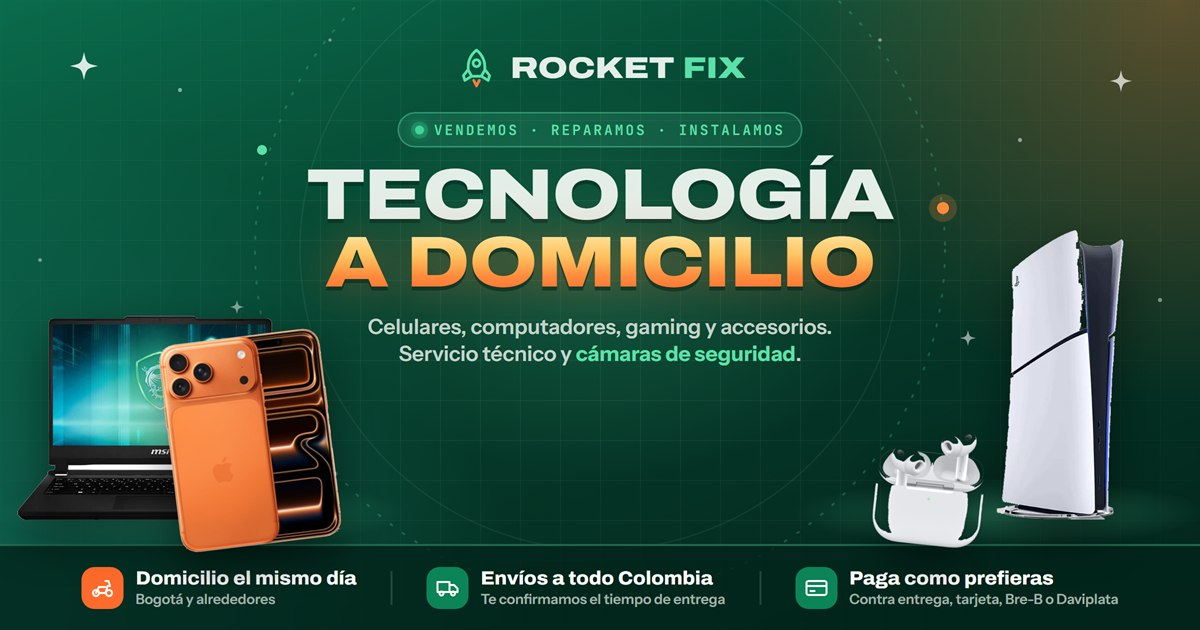
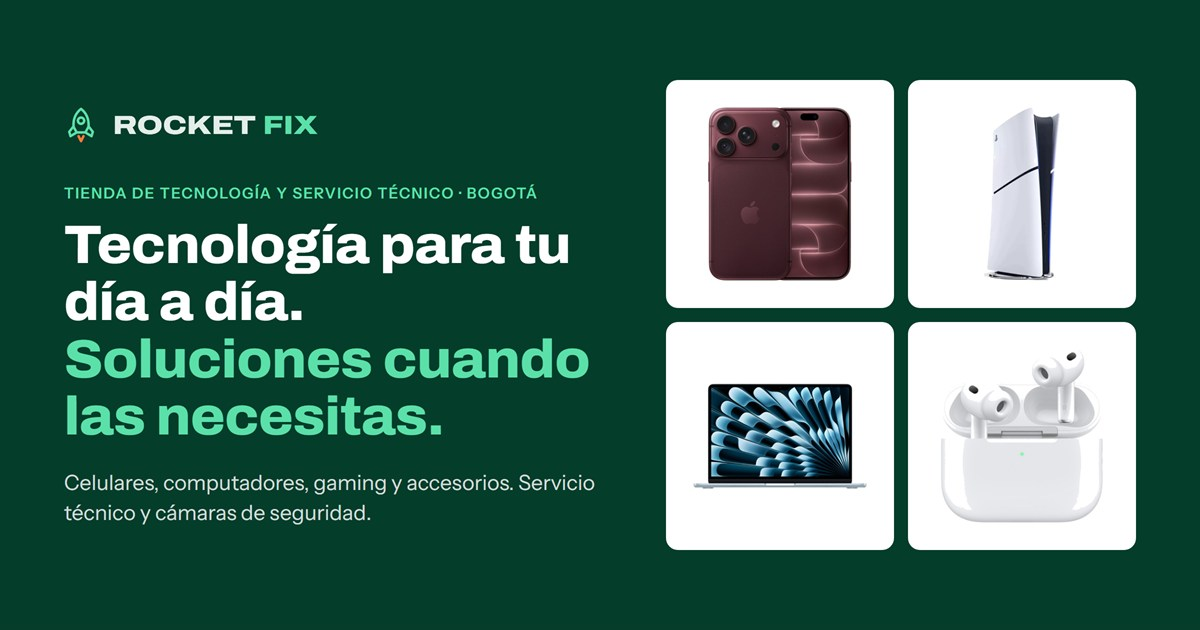
Auditoría de lanzamiento: contraste, regreso de Bold, vitrina, 404 e imagen para compartir
- Botones naranjas y contador del carrito con texto oscuro (2,8:1 -> 6,7:1); gris secundario y filtros activos con contraste suficiente
- El aviso al volver de Bold ya no afirma un pago que la página no puede verificar; lectura del regreso una sola vez
- La vitrina deja de cambiar sola cuando la persona elige un producto
- 404.html lleva las direcciones sin # a la sección correcta
- Nueva imagen para compartir el enlace con el estilo actual y metadatos actualizados
- Informe en docs/auditoria-lanzamiento.md

diff --git a/src/paginas/Inicio.tsx b/src/paginas/Inicio.tsx
@@ -17,19 +17,21 @@ import type { Producto, Servicio } from "../types";
 const VITRINA = ["ip18pm", "ss26u", "p45631", "mbairm5", "switch2", "appro3"];
 const ESPERA_VITRINA = 6000;
 
-/** Vitrina: un producto grande y los demás en miniatura. Cambia sola con un fundido (se detiene con el mouse encima,
-    al usar el teclado o si la persona pidió menos movimiento). */
+/** Vitrina: un producto grande y los demás en miniatura. Cambia sola con un fundido; se detiene con el mouse encima o
+    al usar el teclado, no se mueve si la persona pidió menos movimiento y deja de cambiar cuando la persona elige un producto
+    (en celular no hay mouse que la detenga). */
 function Vitrina() {
   const productos = useMemo(() => VITRINA.map(id => porId[id]).filter((p): p is Producto => Boolean(p)), []);
   const [i, setI] = useState(0);
   const [quieta, setQuieta] = useState(false);
+  const [elegida, setElegida] = useState(false);
   const [reducir] = useState(() => window.matchMedia("(prefers-reduced-motion: reduce)").matches);
 
   useEffect(() => {
-    if (quieta || reducir || productos.length < 2) return;
+    if (quieta || elegida || reducir || productos.length < 2) return;
     const t = window.setTimeout(() => setI(x => (x + 1) % productos.length), ESPERA_VITRINA);
     return () => window.clearTimeout(t);
-  }, [i, quieta, reducir, productos.length]);
+  }, [i, quieta, elegida, reducir, productos.length]);
 
   const p = productos[i];
   if (!p) return null;
@@ -45,7 +47,7 @@ function Vitrina() {
         ))}
         <span className="absolute left-3 top-3 rounded-sm bg-fondo px-2 py-1 text-[11px] font-semibold uppercase tracking-wide text-tinta-2">{etiquetaDe(p)}</span>
       </div>
-      <div className="flex items-center justify-between gap-3 border-t border-linea px-4 py-3.5 sm:px-5" aria-live={quieta ? "polite" : "off"}>
+      <div className="flex items-center justify-between gap-3 border-t border-linea px-4 py-3.5 sm:px-5" aria-live={quieta || elegida ? "polite" : "off"}>
         <div className="min-w-0">
           <p className="truncate font-display text-[17px] font-bold">{p.nombre}</p>
           <p className="text-sm text-tinta-2">{p.opciones.length > 1 && "Desde "}<b className="font-display text-[15px] tabular-nums text-tinta">{dinero(desde(p))}</b></p>
@@ -54,7 +56,7 @@ function Vitrina() {
       </div>
       <div className="grid grid-cols-6 gap-1.5 border-t border-linea bg-fondo p-2 sm:gap-2 sm:p-2.5">
         {productos.map((x, j) => (
-          <button key={x.id} type="button" onClick={() => setI(j)} aria-label={`Ver ${x.nombre}`} aria-current={j === i || undefined}
+          <button key={x.id} type="button" onClick={() => { setI(j); setElegida(true); }} aria-label={`Ver ${x.nombre}`} aria-current={j === i || undefined}
             className={`aspect-square rounded border bg-white p-1 transition-colors ${j === i ? "border-marca ring-1 ring-marca" : "border-linea hover:border-linea-fuerte"}`}>
             <FotoProducto producto={x} alt="" />
           </button>

diff --git a/index.html b/index.html
@@ -15,13 +15,14 @@
     <meta property="og:site_name" content="Rocket Fix" />
     <meta property="og:locale" content="es_CO" />
     <meta property="og:url" content="https://oscarjimenez21.github.io/RocketFix/" />
-    <meta property="og:title" content="Rocket Fix · Tecnología a domicilio" />
-    <meta property="og:description" content="Celulares, computadores, gaming y accesorios con domicilio el mismo día en Bogotá y envíos a todo Colombia. Servicio técnico y cámaras de seguridad." />
-    <meta property="og:image" content="https://oscarjimenez21.github.io/RocketFix/vista-previa.jpg" />
+    <meta property="og:title" content="Rocket Fix · Tecnología para tu día a día" />
+    <meta property="og:description" content="Celulares, computadores, gaming y accesorios con entrega a domicilio en Bogotá y envíos a todo Colombia. Servicio técnico y cámaras de seguridad." />
+    <!-- ?v=2: al cambiar la imagen se sube este número para que WhatsApp y Facebook no muestren la anterior guardada -->
+    <meta property="og:image" content="https://oscarjimenez21.github.io/RocketFix/vista-previa.jpg?v=2" />
     <meta property="og:image:type" content="image/jpeg" />
     <meta property="og:image:width" content="1200" />
     <meta property="og:image:height" content="630" />
-    <meta property="og:image:alt" content="Rocket Fix: tecnología a domicilio. Celulares, computadores, gaming, servicio técnico y cámaras de seguridad." />
+    <meta property="og:image:alt" content="Rocket Fix: tecnología para tu día a día. iPhone, PlayStation 5, MacBook y AirPods; servicio técnico y cámaras de seguridad." />
     <meta name="twitter:card" content="summary_large_image" />
     <link rel="preconnect" href="https://fonts.googleapis.com" />
     <link rel="preconnect" href="https://fonts.gstatic.com" crossorigin />

diff --git a/src/App.tsx b/src/App.tsx
@@ -28,7 +28,8 @@ function tituloDe(r: Ruta) {
   return base;
 }
 
-/** Aviso del resultado cuando Bold devuelve al cliente a la tienda */
+/** Aviso cuando Bold devuelve al cliente a la tienda. El estado viene en la dirección (?bold-tx-status=…) y la página
+    no puede comprobarlo: por eso no afirma que el pago se recibió; Rocket Fix lo verifica en Bold antes de despachar. */
 function RegresoBold() {
   const { vaciar } = useTienda();
   const [regreso] = useState(leerRegresoBold);
@@ -37,8 +38,8 @@ function RegresoBold() {
   let msg = "";
   try { msg = localStorage.getItem("rf-pago-" + regreso.ref) || ""; } catch { /* sin almacenamiento */ }
   const aprobado = regreso.estado === "approved";
-  const titulo = aprobado ? "¡Pago recibido!" : regreso.estado === "pending" ? "Tu pago está en proceso." : "El pago no se completó.";
-  const texto = aprobado ? "Envíanos el pedido por WhatsApp para coordinar la entrega." : regreso.estado === "pending" ? "Te avisamos por WhatsApp cuando Bold lo confirme." : "Puedes intentarlo de nuevo desde el carrito o enviarnos el pedido por WhatsApp.";
+  const titulo = aprobado ? "Bold reportó tu pago como aprobado." : regreso.estado === "pending" ? "Tu pago está en proceso." : "El pago no se completó.";
+  const texto = aprobado ? "Envíanos el pedido por WhatsApp: verificamos el pago y coordinamos la entrega." : regreso.estado === "pending" ? "Te avisamos por WhatsApp cuando Bold lo confirme." : "Puedes intentarlo de nuevo desde el carrito o enviarnos el pedido por WhatsApp.";
   return (
     <div role="status" className={aprobado ? "bg-marca-suave" : "bg-acento-suave"}>
       <p className="contenedor py-3 text-sm"><strong>{titulo}</strong> {texto} Referencia {regreso.ref}.{" "}

diff --git a/public/404.html b/public/404.html
@@ -1,0 +1,23 @@
+<!doctype html>
+<html lang="es">
+  <head>
+    <meta charset="utf-8" />
+    <meta name="viewport" content="width=device-width, initial-scale=1" />
+    <meta name="robots" content="noindex" />
+    <title>Rocket Fix</title>
+    <script>
+      // GitHub Pages muestra esta página cuando una dirección no existe, por ejemplo /RocketFix/celulares (escrita sin #).
+      // La tienda usa direcciones con # (/RocketFix/#celulares, /RocketFix/#p/sa07), así que se lleva a la persona
+      // a la misma sección. Si la sección tampoco existe, la tienda muestra su propia página de "No la encontramos".
+      (function () {
+        var partes = location.pathname.split("/").filter(Boolean);
+        var base = partes[0] === "RocketFix" ? "/" + partes.shift() + "/" : "/";
+        var resto = partes.join("/").replace(/\.html?$/i, "").replace(/^index$/i, "");
+        location.replace(base + (location.hash || (resto ? "#" + resto : "")));
+      })();
+    </script>
+  </head>
+  <body style="font-family: system-ui, sans-serif; padding: 24px">
+    <p>Te estamos llevando a la tienda. Si no pasa nada, entra a <a href="/RocketFix/">Rocket Fix</a>.</p>
+  </body>
+</html>

diff --git a/src/lib/bold.ts b/src/lib/bold.ts
@@ -58,11 +58,14 @@ export async function abrirBold(ref: string, total: number, descripcion: string)
   return modo;
 }
 
-/** Cuando Bold devuelve al cliente (?pedido=…&bold-tx-status=…) */
+/** Cuando Bold devuelve al cliente (?pedido=…&bold-tx-status=…). Se lee una sola vez: después se limpian los datos
+    de la dirección, así que una segunda lectura (React la repite en modo de desarrollo) devuelve el mismo resultado. */
+let regreso: { ref: string; estado: string } | null | undefined;
 export function leerRegresoBold(): { ref: string; estado: string } | null {
+  if (regreso !== undefined) return regreso;
   const q = new URLSearchParams(location.search);
   const ref = q.get("pedido"), estado = q.get("bold-tx-status");
-  if (!ref || !estado) return null;
-  history.replaceState(null, "", location.pathname + location.hash);
-  return { ref, estado };
+  regreso = ref && estado ? { ref, estado } : null;
+  if (regreso) history.replaceState(null, "", location.pathname + location.hash);
+  return regreso;
 }

diff --git a/tailwind.config.js b/tailwind.config.js
@@ -16,9 +16,10 @@ export default {
           suave: "#E7F3EC"
         },
         // Naranja del cohete: solo para la acción principal y detalles puntuales. "texto" se lee sobre fondos claros (7:1)
-        acento: { DEFAULT: "#FF6B2C", hover: "#E85A1D", suave: "#FFF0E8", texto: "#9A3412" },
-        // tinta-3 cumple contraste 4,5:1 sobre blanco para textos pequeños
-        tinta: { DEFAULT: "#0F1F18", 2: "#4A5D53", 3: "#66766D" },
+        // "tinta": texto sobre el naranja (el mismo de la tienda original), 6,7:1; el blanco sobre naranja solo da 2,8:1
+        acento: { DEFAULT: "#FF6B2C", hover: "#E85A1D", suave: "#FFF0E8", texto: "#9A3412", tinta: "#1F0B00" },
+        // tinta-3 cumple contraste 4,5:1 sobre blanco y sobre el fondo claro para textos pequeños
+        tinta: { DEFAULT: "#0F1F18", 2: "#4A5D53", 3: "#5F6F66" },
         fondo: "#F4F8F6",
         linea: { DEFAULT: "#DCE6E0", fuerte: "#C5D3CA" },
         // Verde WhatsApp un poco más oscuro para que el texto blanco se lea bien (contraste 4,7:1)

diff --git a/src/components/Cabecera.tsx b/src/components/Cabecera.tsx
@@ -171,7 +171,7 @@ export function Cabecera({ ruta }: { ruta: Ruta }) {
               className="inline-flex h-11 items-center gap-1.5 rounded border border-linea-fuerte px-2.5 text-sm font-semibold transition-colors hover:border-tinta-2 sm:gap-2 sm:px-3">
               <IconoBolsa />
               <span className="hidden sm:inline">Carrito</span>
-              <span className={`min-w-[22px] rounded-full px-1.5 py-0.5 text-center text-xs font-bold tabular-nums ${unidades ? "bg-acento text-white" : "bg-fondo text-tinta-2"}`}>{unidades}</span>
+              <span className={`min-w-[22px] rounded-full px-1.5 py-0.5 text-center text-xs font-bold tabular-nums ${unidades ? "bg-acento text-acento-tinta" : "bg-fondo text-tinta-2"}`}>{unidades}</span>
             </button>
           </div>
         </div>

diff --git a/src/index.css b/src/index.css
@@ -26,7 +26,7 @@
 
   .btn { @apply inline-flex min-h-[44px] items-center justify-center gap-2 rounded px-4 text-[15px] font-semibold transition-colors disabled:cursor-not-allowed disabled:opacity-50; }
   .btn-sm { @apply min-h-[40px] px-3 text-sm; }
-  .btn-primario { @apply bg-acento text-white hover:bg-acento-hover; }
+  .btn-primario { @apply bg-acento text-acento-tinta hover:bg-acento-hover; }
   .btn-marca { @apply bg-marca text-white hover:bg-marca-hover; }
   .btn-wa { @apply bg-wa text-white hover:bg-wa-hover; }
   .btn-borde { @apply border border-linea-fuerte bg-white text-tinta hover:border-tinta-2; }

diff --git a/src/paginas/Tienda.tsx b/src/paginas/Tienda.tsx
@@ -23,7 +23,7 @@ export function abrirTiendaEn(tienda: TiendaId, cat: string) {
 function Chip({ activo, onClick, children, n }: { activo: boolean; onClick: () => void; children: React.ReactNode; n: number }) {
   return (
     <button type="button" aria-pressed={activo} onClick={onClick} className="chip">
-      {children} <span className={`text-xs tabular-nums ${activo ? "text-white/80" : "text-tinta-3"}`}>{n}</span>
+      {children} <span className={`text-xs tabular-nums ${activo ? "text-white" : "text-tinta-3"}`}>{n}</span>
     </button>
   );
 }

diff --git a/docs/auditoria-lanzamiento.md b/docs/auditoria-lanzamiento.md
@@ -1,0 +1,167 @@
+# Auditoría de lanzamiento de Rocket Fix
+
+Rama: `auditoria-lanzamiento`, a partir de lo publicado (`main` en `7d3c0c6`). **Nada de esto está publicado.** `main`, GitHub Pages y la configuración siguen sin cambios. Para comparar con la versión estable, en GitHub Desktop elige la rama y abre *History*; también puedes usar `git diff main auditoria-lanzamiento`.
+
+## A. Problemas encontrados
+
+| # | Problema | Dónde |
+|---|---|---|
+| 1 | Los botones naranjas principales ("Comprar tecnología", "Agregar al carrito", "Cotizar instalación") tenían texto blanco sobre naranja: contraste de 2,84:1, cuando el mínimo para texto normal es 4,5:1. Lo mismo pasaba con el contador del carrito | `src/index.css` (`.btn-primario`), `src/components/Cabecera.tsx` |
+| 2 | El gris del texto secundario daba 4,48:1 sobre el fondo claro, apenas por debajo del mínimo (fechas, notas, migas de pan) | `tailwind.config.js` (`tinta-3`) |
+| 3 | En los filtros activos, el número de productos daba 3,6:1 | `src/paginas/Tienda.tsx` |
+| 4 | Al volver de Bold, la página decía "¡Pago recibido!" basándose solo en un dato de la dirección web (`?bold-tx-status=approved`), que cualquiera puede escribir a mano. Afirmaba un pago que nadie había verificado | `src/App.tsx` (`RegresoBold`) |
+| 5 | Esa lectura del regreso de Bold se borraba a sí misma: si React la repetía (en modo de desarrollo lo hace), el aviso no aparecía | `src/lib/bold.ts` |
+| 6 | En celular, la vitrina de la portada seguía cambiando sola aunque la persona hubiera elegido un producto (en celular no hay mouse que la detenga) | `src/paginas/Inicio.tsx` |
+| 7 | Una dirección escrita sin `#` (por ejemplo `/RocketFix/celulares`) mostraba la página de error genérica de GitHub | Faltaba `public/404.html` |
+| 8 | En la imagen que se ve al compartir el enlace, la PS5 y los AirPods estaban mal recortados (bordes dentados), y el estilo, con degradados y brillos, ya no coincidía con la página. Además, la descripción para compartir prometía entrega "el mismo día", que está pendiente de confirmar | `public/vista-previa.jpg`, `index.html` |
+
+**Revisado sin problemas:**
+- 273 enlaces internos sin enlaces rotos, y ningún producto enlazado que no exista.
+- En 24 páginas: todos los botones y enlaces tienen nombre, todas las imágenes tienen texto alternativo, todos los campos tienen etiqueta, no hay identificadores repetidos y cada página tiene un único título principal.
+- Consola sin errores ni advertencias.
+- El número de WhatsApp sale de un solo lugar (`config.json`); la única copia aparte está en el aviso para navegadores sin JavaScript (`index.html`) y coincide.
+
+## B. Correcciones realizadas
+
+1. **Contraste de los botones naranjas:** el naranja de la marca no cambia. El texto pasa a `#1F0B00`, el marrón casi negro que la tienda original usaba sobre ese mismo naranja: 6,7:1. Se aplicó también al contador del carrito.
+2. **Gris secundario:** pasa de `#66766D` a `#5F6F66`, que da 4,9:1 sobre el fondo claro y 5,3:1 sobre blanco.
+3. **Números de los filtros activos:** pasan a blanco pleno (4,7:1).
+4. **Regreso de Bold:**
+   - El aviso ahora dice "Bold reportó tu pago como aprobado. Envíanos el pedido por WhatsApp: verificamos el pago y coordinamos la entrega."
+   - No afirma que el pago se recibió, porque la página no puede comprobarlo.
+   - La lógica no cambió.
+5. **Lectura del regreso de Bold:** se hace una sola vez y se guarda el resultado.
+6. **Vitrina:** deja de cambiar sola cuando la persona elige un producto. También se detiene con el mouse o el teclado, y no se mueve si la persona pidió menos movimiento.
+7. **`public/404.html`:**
+   - Lleva `/RocketFix/celulares` a `/RocketFix/#celulares`, y `/RocketFix/p/sa07` a `/RocketFix/#p/sa07`.
+   - Si la sección no existe, se ve la página "No la encontramos" de la tienda.
+   - Probado con 7 direcciones de ejemplo.
+8. **Imagen para compartir rediseñada** (1200 × 630, 91 KB):
+   - Mismo estilo de la portada: verde oscuro plano, logo oficial y el titular "Tecnología para tu día a día. Soluciones cuando las necesitas.".
+   - Muestra iPhone 18 Pro Max, PS5, MacBook Air M5 y AirPods Pro 3 sobre mosaicos blancos, con las fotos completas de 800 px y sin recortes.
+   - Archivo fuente y versión de alta calidad en `Downloads\Lanzamiento Rocket Fix\Vista previa del enlace\02 Tecnologia para tu dia a dia`.
+   - En `index.html`:
+     - `og:image` lleva `?v=2` para que WhatsApp y Facebook no sigan mostrando la versión anterior guardada;
+     - el título y la descripción coinciden con la portada nueva;
+     - la descripción ya no dice "el mismo día".
+
+## C. Mejoras recomendadas (requieren tu decisión, información o servicios externos)
+
+1. **Políticas.** No existen y no las inventé:
+   - garantía;
+   - cambios y devoluciones, incluido el derecho de retracto en compras por internet;
+   - tratamiento de datos personales. Los formularios y el carrito piden nombre y dirección, aunque solo los ponen en un mensaje de WhatsApp.
+
+   Cuando las tengas, las agrego al pie de página.
+2. **Pago con Bold:**
+   - **Monto:** como `firmaUrl` está vacío, el cliente escribe el total a mano, así que puede pagar un valor distinto.
+   - **Estado:** el estado que llega en la dirección no está verificado.
+   - **Para dejarlo completo** hace falta un servicio pequeño, que puede ser gratuito (Cloudflare Workers, Netlify o Vercel). Guardaría la llave secreta, firmaría el total (así el cliente no lo escribe) y recibiría las confirmaciones de Bold por *webhook*.
+   - **Mientras tanto:** verifica cada pago en el panel de Bold, por referencia y monto, antes de despachar.
+3. **"Lo más vendido" y la cinta "Top ventas".** La tienda todavía no tiene historial de ventas propio. Si la lista refleja lo más vendido en el mercado colombiano, conviene decir "Populares en Colombia" o algo similar.
+4. **Dominio propio** (por ejemplo, rocketfix.com.co):
+   - genera más confianza;
+   - permite `robots.txt` y `sitemap.xml`, porque en una página de proyecto de GitHub esos archivos no se leen;
+   - da un correo con el nombre de la tienda.
+5. **Posicionamiento en Google:** con las direcciones `#`, Google ve sobre todo la portada. Para que cada producto aparezca por separado habría que generar una página por producto. Es un cambio mayor.
+6. **Ficha de producto:** dice "Paga con tarjeta, Bre-B, Daviplata, transferencia o efectivo" y no menciona PSE, que la portada sí incluye (a través de Bold). Conviene unificar el texto.
+7. **Mensaje del pedido por WhatsApp:** no incluye notas como "Sobre pedido". Agregarlas cambiaría el formato del mensaje.
+8. **Rendimiento:** el archivo principal pesa 523 KB (121 KB comprimido) porque incluye el catálogo. Conviene cargarlo aparte si el catálogo crece mucho.
+9. **Catálogo:** 52 productos sin marca, 371 sin carrusel y 3 fotos aproximadas (Corn GT22, Corn GT32 y Fly FY200).
+
+## D. Pruebas
+
+| Prueba | Resultado |
+|---|---|
+| `npm run typecheck` (`tsc -b`) | Sin errores |
+| `npm run verificar` | "Catálogo listo para publicar" (963 productos, 1.083 versiones, 592 galerías) |
+| `node scripts/verificar-catalogo.mjs --estricto` | "Todo coincide con la tienda anterior" |
+| `npm run build` | Correcto: CSS de 41 KB, código de 523 KB (121 KB comprimido) y producto aparte de 195 KB (55 KB comprimido). Incluye `404.html` y la imagen nueva |
+| `npm run auditoria` | 0 ids repetidos, 0 fotos faltantes o rotas, 52 productos sin marca. El documento no cambió de contenido |
+| Enlaces internos (navegador) | 273 revisados, ninguno roto, 0 productos inexistentes |
+| Accesibilidad automática (24 páginas) | Sin botones ni enlaces sin nombre, sin imágenes sin texto alternativo, sin campos sin etiqueta, sin identificadores repetidos y con un único título principal por página |
+| Contraste de todo el texto visible (5 páginas) | Antes: 8 casos bajo el mínimo. Después: 0 |
+| Vitrina | Al elegir la PS5, sigue mostrándola 7 segundos después |
+| Regreso de Bold (simulado solo con la dirección, sin pagos) | Aviso nuevo correcto y dirección limpia |
+| `404.html` | 7 direcciones de ejemplo redirigen bien |
+| Versión compilada servida en `/RocketFix/` | La ficha de producto abre directo, la imagen y el `404.html` responden, los metadatos están y el ancla de servicios funciona. Sin errores en la consola |
+| Anchos de pantalla | Ya probados en el rediseño (320 a 1440 px). Esta vez se revisó la portada a 1280 px |
+
+**Sin probar:**
+- un pago real con Bold;
+- teléfonos físicos y Safari en iPhone;
+- lectores de pantalla;
+- Lighthouse;
+- la vista previa real en WhatsApp o Facebook, que solo se puede ver después de publicar.
+
+## E. Datos comerciales por confirmar
+
+| Dato | Valor actual | Dónde aparece |
+|---|---|---|
+| Entrega el mismo día en Bogotá **y alrededores** (sin zona definida) | — | Portada (beneficios y "Cómo comprar"), ficha de producto, `config.json → domicilio` |
+| Envío en Bogotá | $15.000, gratis desde $400.000 | `config.json → envios`: carrito, portada y ficha |
+| Envío a otra ciudad | $40.000, gratis desde $1.500.000; pago anticipado | Igual que el anterior |
+| Pago contra entrega en Bogotá | Efectivo y tarjeta con datáfono | `config.json → pagos.bogota`, nota de `pagos.json` (pie), portada |
+| Pago con tarjeta en otras ciudades | "Te enviamos un link de pago" (requiere links de pago de Bold) | `config.json → pagos.nacional` (carrito) |
+| Medios de pago | Visa, Mastercard, PSE (Bold), Bre-B, DaviPlata, transferencia, efectivo, datáfono | `pagos.json` (pie) |
+| Paquetes de cámaras (de referencia, con instalación) | $450.000, $1.600.000 y $2.800.000 | `contenido.json → paquetes`: portada (bloque de cámaras) y artículo de cámaras |
+| Visita técnica para cotizar cámaras (no dice si tiene costo) | — | Servicio de cámaras y formulario |
+| Garantía de reparación de celulares (sin plazo) | "Garantía sobre el repuesto y el trabajo realizado" | Artículo de celulares, preguntas frecuentes |
+| Tiempos de reparación | Pantalla, 1 a 3 h; batería, 1 h; celular mojado, 1 a 3 días; computador "el mismo día si lo recibimos en la mañana" | Artículos de celulares y de computadores |
+| "Te decimos el valor antes de reparar" | — | Servicios (portada) |
+| Obsequios y promociones | Tecno Camon 50 Pro (audífonos), Camon 50 Pro 4G (diadema), vivo V60 Lite (reloj), Lenovo Tab Plus (forro y Moto Buds), Switch 2 (incluye un juego) | `productos.json → nota`: tarjeta, ficha y "Qué incluye la caja" |
+| "Sobre pedido" | Producto `pporttilgig` | `productos.json → nota` |
+| "Lo más vendido" y "Top ventas" | 15 productos | Portada |
+| "Reacondicionados certificados (CPO)" | — | Encabezado de Celulares |
+| "Cargadores originales" | — | Encabezado de Accesorios |
+| Garantía de las patinetas ("cómo es la garantía") | — | Encabezado de Patinetas |
+| Horario | Lunes a sábado de 8:00 a. m. a 8:00 p. m.; domingos y festivos cerrado | `config.json → horario` (pie y estado "Abierto ahora") |
+| WhatsApp | +57 322 326 2404, igual en todo el sitio | `config.json` |
+| Redes sociales | Vacías | `config.json → redes` |
+| Precios de los 963 productos | Vienen del catálogo actual; no se compararon con el proveedor en esta auditoría | `productos.json` |
+
+## F. Estado del lanzamiento
+
+**Pendiente de información comercial.** En lo técnico, la tienda está lista para continuar:
+- compila y pasa todas las comprobaciones;
+- la navegación, el carrito, los formularios y los enlaces funcionan;
+- no hay errores en la consola;
+- se ve bien de 320 a 1440 px.
+
+Antes de recibir clientes reales faltan:
+- las políticas de garantía, devoluciones y datos personales;
+- confirmar los datos comerciales de la sección E, en especial obsequios, entrega el mismo día, costos de envío y garantías;
+- decidir sobre "Top ventas".
+
+El pago con Bold funciona, pero con el total escrito a mano por el cliente; hay que verificar cada pago en el panel de Bold.
+
+## G. Archivos modificados en esta rama
+
+| Archivo | Cambio |
+|---|---|
+| `tailwind.config.js` | `acento.tinta` (texto sobre naranja); `tinta-3` más oscuro |
+| `src/index.css` | `.btn-primario` con texto oscuro |
+| `src/components/Cabecera.tsx` | Contador del carrito con texto oscuro |
+| `src/paginas/Tienda.tsx` | Número de los filtros activos en blanco pleno |
+| `src/App.tsx` | Aviso de regreso de Bold sin afirmar un pago no verificado |
+| `src/lib/bold.ts` | Lectura del regreso de Bold una sola vez |
+| `src/paginas/Inicio.tsx` | La vitrina se detiene cuando la persona elige un producto |
+| `public/404.html` (nuevo) | Redirige las direcciones sin `#` a la sección correcta |
+| `public/vista-previa.jpg` | Imagen nueva para compartir el enlace |
+| `index.html` | Metadatos para compartir: título, descripción, texto alternativo e imagen `?v=2` |
+| `docs/auditoria-lanzamiento.md` (nuevo) | Este informe |
+
+## H. Próximos pasos, en orden
+
+1. Revisar esta rama y autorizar su publicación. Incluye la imagen nueva para compartir.
+2. Redactar las políticas: garantía, cambios y devoluciones (con retracto) y tratamiento de datos personales.
+3. Confirmar o corregir los datos de la sección E, empezando por obsequios, entrega el mismo día y su zona, costos de envío y garantías.
+4. Decidir el nombre de "Lo más vendido" y "Top ventas".
+5. Decidir sobre Bold: seguir con el total escrito por el cliente (verificando cada pago en el panel) o montar el servicio de firma y confirmaciones.
+6. Agregar las redes sociales a `config.json`.
+7. Después de publicar:
+   - actualizar la vista previa en el depurador de Facebook (https://developers.facebook.com/tools/debug/) y compartir el enlace en WhatsApp para comprobarla;
+   - hacer una compra de prueba por WhatsApp desde un teléfono.
+8. Opcional: dominio propio.
+
+**Para publicar cuando lo autorices:** en GitHub Desktop, estando en `main`, elige *Branch → Merge into current branch → auditoria-lanzamiento* y luego **Push origin**.
